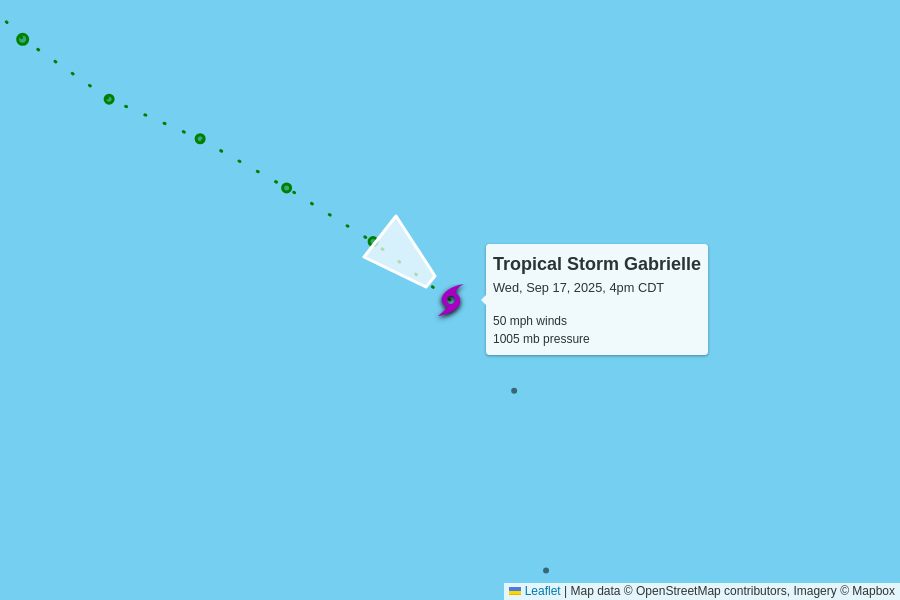
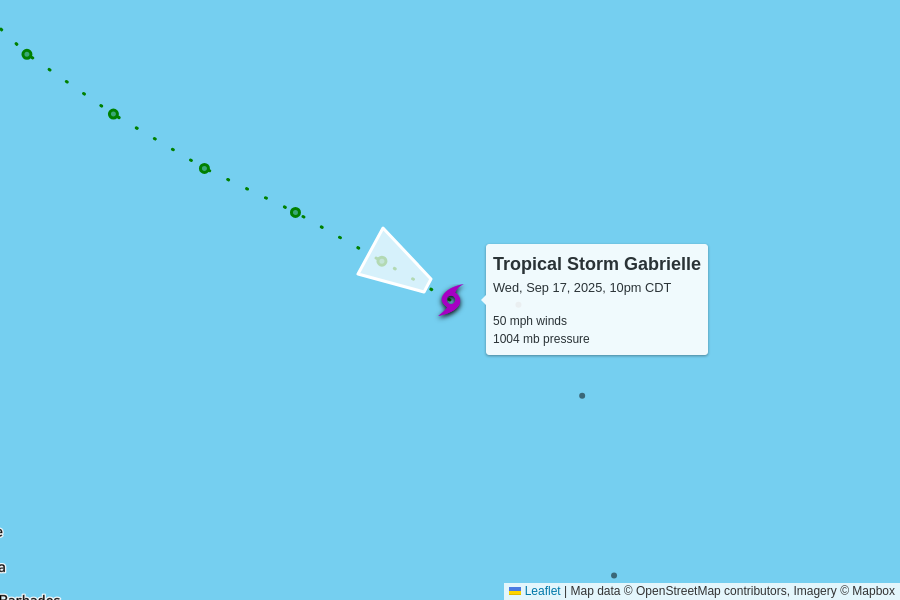
automatic update

diff --git a/docs/index.html b/docs/index.html
@@ -102,7 +102,7 @@
         <td colspan="6" class="storm category-0" >
           <h2>
             Tropical Storm Gabrielle
-            <p class="updated">last updated <span data-time>2025-09-17T21:00:00.000Z</span></p>
+            <p class="updated">last updated <span data-time>2025-09-18T03:00:00.000Z</span></p>
           </h2>
         </td>
       </tr>
@@ -117,12 +117,12 @@
       </tr>
       <tr>
         <td class="spacer"></td>
-        <td>50 mph<br>+5 mph since last update</td>
-        <td>1005 mb<br>-1 mb since last update</td>
+        <td>50 mph<br>0 mph since last update</td>
+        <td>1004 mb<br>-1 mb since last update</td>
         <td>
-          14 mph to the northwest
+          16 mph to the west-northwest
           <br/>
-          <span style="display: inline-block; font-size: 1.5em; transform: rotate(310deg);">↑</span>
+          <span style="display: inline-block; font-size: 1.5em; transform: rotate(300deg);">↑</span>
         </td>
         <td><a href="https://raw.githubusercontent.com/mgwalker/atlantic-hurricanes/main/data/csv/AL072025.csv">AL072025.csv</a></td>
         <td><a href="https://www.nhc.noaa.gov/archive/2025/GABRIELLE.shtml?">NHC advisories</a></td>
